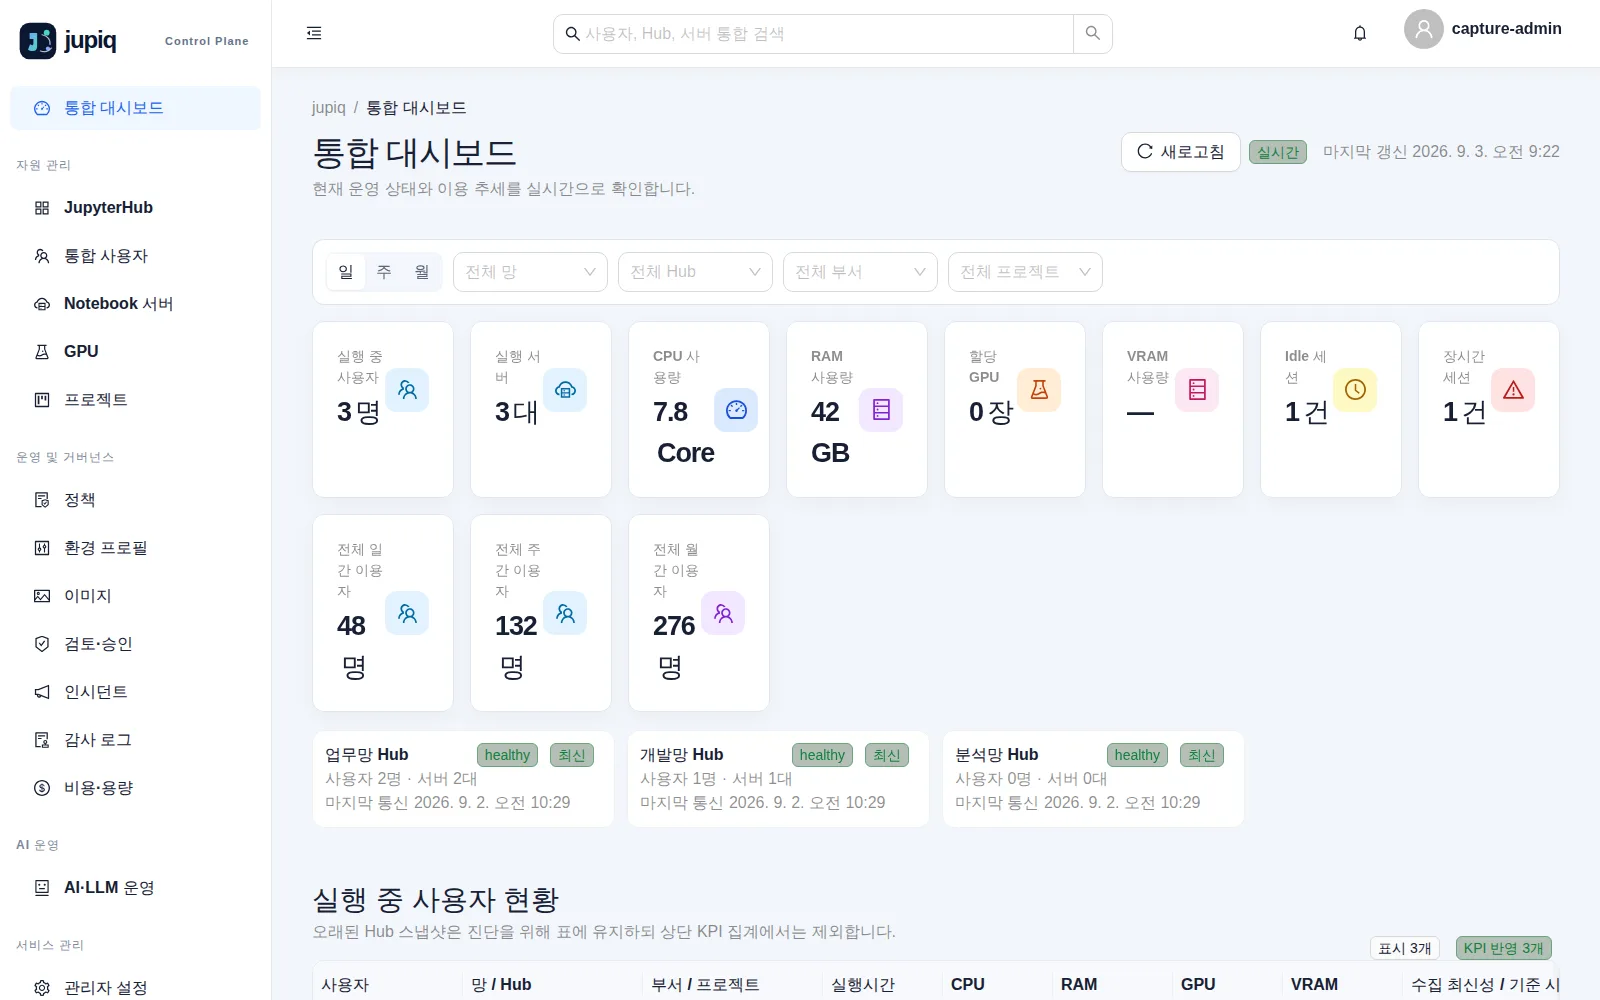
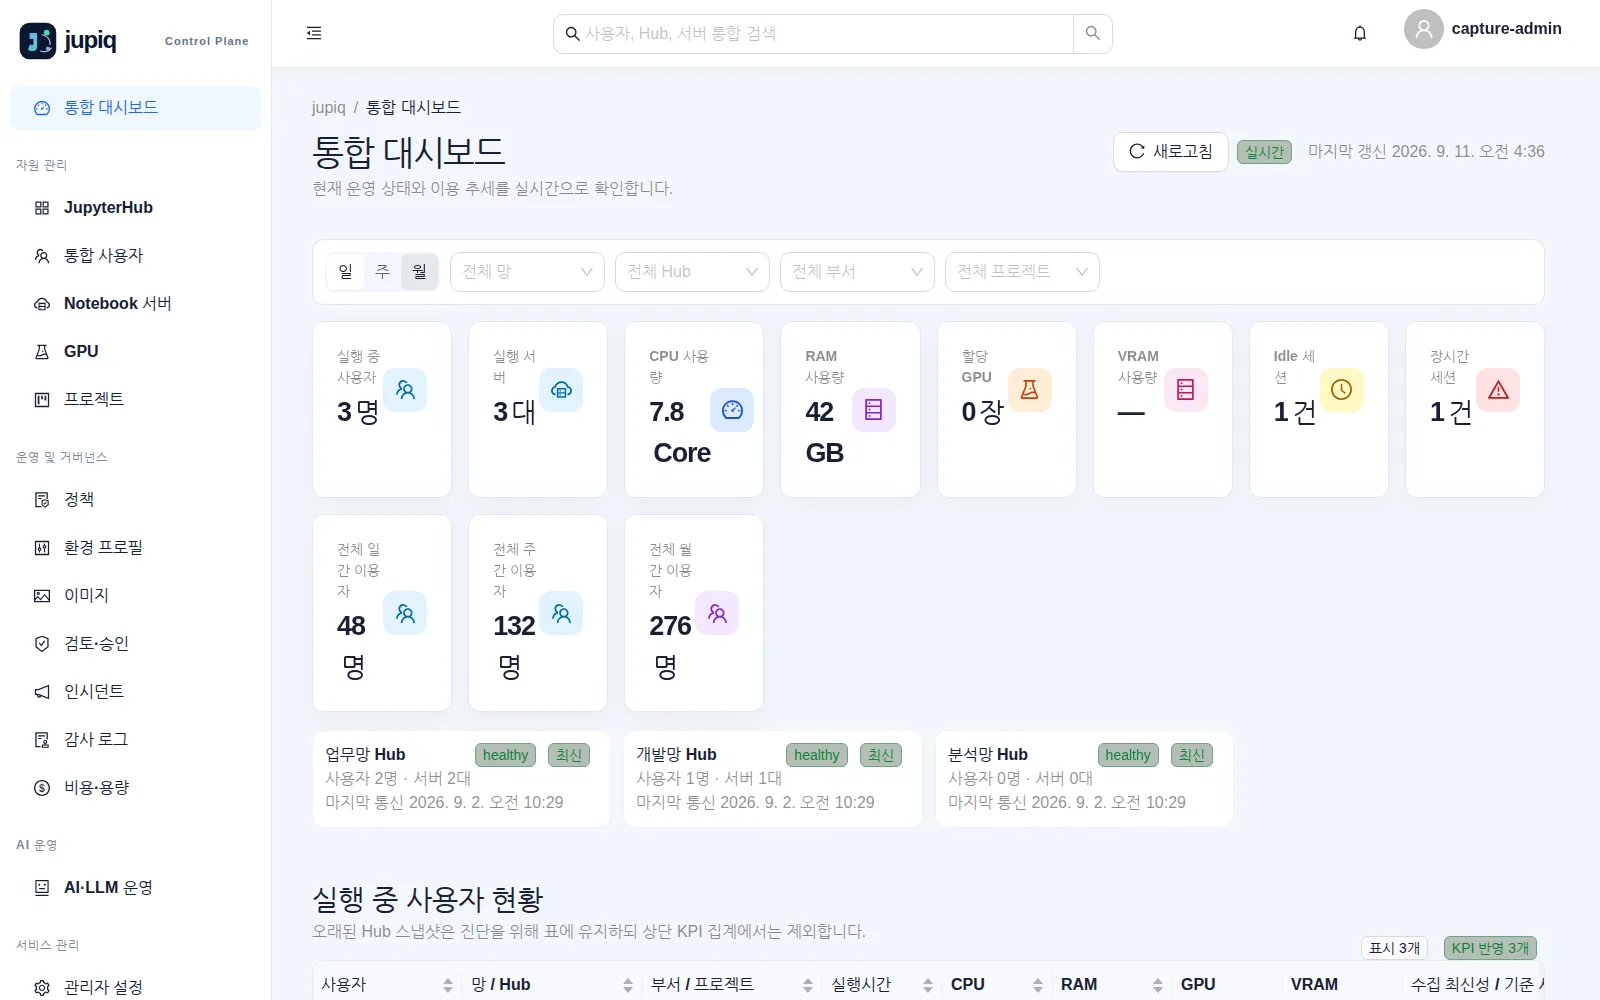
chore(screenshots): v1.4.13 화면으로 캡처를 다시 찍고 역할 화면을 추가한다
기존 29장은 v1.0.0~v1.1.0 시점 캡처라 지금 UI와 어긋난 곳이 있었다.
로컬 PostgreSQL과 v1.4.13 빌드로 앱을 띄워 manifest 전체를 다시 찍었다.

관리자 가이드의 "계정과 권한" 절이 실제 역할 화면을 실을 수 있도록
admin-roles.webp(관리자 설정 → 보안·키 권한 탭)를 manifest에 더하고,
캡처 스크립트가 해당 탭을 열고 역할 표가 뜬 뒤 찍도록 조건을 추가했다.
갤러리와 홈의 화면 수(29 → 30)도 함께 맞췄다.

diff --git a/docs/screenshots/index.html b/docs/screenshots/index.html
@@ -4,7 +4,7 @@
   <meta charset="utf-8">
   <meta name="viewport" content="width=device-width,initial-scale=1">
   <title>전체 제품 화면 갤러리 | jupiq</title>
-  <meta name="description" content="jupiq의 로그인, 실시간 JupyterHub 이용 현황, 관리자 연동 설정, 통합 검색, GPU·AI 분석, 정책·감사, 개인 API 키와 모바일 화면 29개를 확인하세요.">
+  <meta name="description" content="jupiq의 로그인, 실시간 JupyterHub 이용 현황, 관리자 연동 설정, 통합 검색, GPU·AI 분석, 정책·감사, 개인 API 키와 모바일 화면 30개를 확인하세요.">
   <meta name="keywords" content="jupiq 화면, JupyterHub 관리자 UI, 실시간 사용량 대시보드, GPU 모니터링 화면, Keycloak 설정, API 키 회전">
   <meta name="theme-color" content="#0b1730">
   <link rel="canonical" href="https://hkjang.github.io/jupiq/screenshots/">
@@ -14,12 +14,12 @@
   <meta property="og:locale" content="ko_KR">
   <meta property="og:site_name" content="jupiq">
   <meta property="og:title" content="jupiq 전체 제품 화면 갤러리">
-  <meta property="og:description" content="실시간 현황부터 사용자·통합 검색, 연동 설정·정책·감사·AI 분석·개인화까지 29개 실제 제품 화면">
+  <meta property="og:description" content="실시간 현황부터 사용자·통합 검색, 연동 설정·정책·감사·AI 분석·개인화까지 30개 실제 제품 화면">
   <meta property="og:url" content="https://hkjang.github.io/jupiq/screenshots/">
   <meta property="og:image" content="https://hkjang.github.io/jupiq/assets/screenshots/realtime-usage.webp">
   <meta name="twitter:card" content="summary_large_image">
   <meta name="twitter:title" content="jupiq 전체 제품 화면 갤러리">
-  <meta name="twitter:description" content="오프라인망 AI Workspace Control Plane의 실제 화면 29개">
+  <meta name="twitter:description" content="오프라인망 AI Workspace Control Plane의 실제 화면 30개">
   <meta name="twitter:image" content="https://hkjang.github.io/jupiq/assets/screenshots/realtime-usage.webp">
   <script type="application/ld+json">
   {
@@ -27,9 +27,9 @@
     "@type":"CollectionPage",
     "name":"jupiq 전체 제품 화면 갤러리",
     "url":"https://hkjang.github.io/jupiq/screenshots/",
-    "description":"jupiq AI Workspace Control Plane의 데스크톱·모바일 제품 화면 29개",
+    "description":"jupiq AI Workspace Control Plane의 데스크톱·모바일 제품 화면 30개",
     "isPartOf":{"@type":"WebSite","name":"jupiq","url":"https://hkjang.github.io/jupiq/"},
-    "mainEntity":{"@type":"ImageGallery","name":"jupiq 제품 화면 29개","numberOfItems":29}
+    "mainEntity":{"@type":"ImageGallery","name":"jupiq 제품 화면 30개","numberOfItems":30}
   }
   </script>
   <script src="../assets/js/site.js" defer></script>
@@ -50,7 +50,7 @@
     <section class="doc-hero"><div class="container">
       <div class="breadcrumb"><span><a href="../">홈</a></span><span>전체 화면 갤러리</span></div>
       <p class="eyebrow">Complete product gallery</p>
-      <h1>운영 흐름 전체를<br>29개 화면으로 확인하세요</h1>
+      <h1>운영 흐름 전체를<br>30개 화면으로 확인하세요</h1>
       <p class="lede">로그인과 실시간 현황부터 Hub·서버, 선택형 GPU, 정책·감사, AI 분석, 개인 API 키와 모바일 화면까지 실제 jupiq UI를 한곳에 모았습니다.</p>
       <div class="actions"><a class="button dark" href="#overview">화면 둘러보기</a><a class="button ghost" href="../user-guide/">사용자 가이드</a></div>
     </div></section>
@@ -110,6 +110,7 @@
       <p class="lede">관리자는 외부 연동과 기능 정책을, 사용자는 자신의 프로필과 최소 권한 API 키를 독립된 화면에서 관리합니다.</p>
       <div class="screenshot-grid">
         <figure class="screenshot-card featured" data-reveal><div class="screenshot-frame"><img src="../assets/screenshots/admin-settings.webp" alt="Keycloak Prometheus Kubernetes AI Webhook 연결 테스트가 있는 관리자 설정 화면" loading="lazy"></div><figcaption><strong>관리자 연동 설정</strong><span>Keycloak·Prometheus·Kubernetes·AI·Webhook 설정을 저장 전에 검사합니다. JupyterHub 등록과 진단은 Hub 관리 화면에서 수행합니다.</span></figcaption></figure>
+        <figure class="screenshot-card" data-reveal><div class="screenshot-frame"><img src="../assets/screenshots/admin-roles.webp" alt="개인 API 키 정책과 역할 세부 권한 목록이 있는 보안 키 권한 화면" loading="lazy"></div><figcaption><strong>역할·세부 권한</strong><span>개인 API 키 정책과 함께 역할별 permission을 확인하고 시스템 역할 보호 규칙을 안내합니다.</span></figcaption></figure>
         <figure class="screenshot-card" data-reveal><div class="screenshot-frame"><img src="../assets/screenshots/personal-profile.webp" alt="역할과 권한이 표시된 개인 프로필 화면" loading="lazy"></div><figcaption><strong>개인 프로필</strong><span>사용자 ID와 표시 이름, 부서, 역할과 세부 권한을 확인합니다.</span></figcaption></figure>
         <figure class="screenshot-card" data-reveal><div class="screenshot-frame"><img src="../assets/screenshots/personal-keys.webp" alt="마스킹된 개인 API 키 권한과 회전 폐기 화면" loading="lazy"></div><figcaption><strong>개인 API 키·회전</strong><span>키 평문을 재표시하지 않고 권한, 상태, 최근 사용, 만료와 회전을 관리합니다.</span></figcaption></figure>
       </div>

diff --git a/docs/index.html b/docs/index.html
@@ -169,7 +169,7 @@
       <div class="container">
         <p class="eyebrow">Product gallery</p><h2>운영자가 매일 보는 화면</h2>
         <p class="lede">검증된 실제 제품 캡처에는 비식별 데모 데이터만 사용하며 개인정보와 내부 주소를 포함하지 않습니다.</p>
-        <div class="actions"><a class="button dark" href="./screenshots/">전체 29개 화면 보기</a></div>
+        <div class="actions"><a class="button dark" href="./screenshots/">전체 30개 화면 보기</a></div>
         <div class="screenshot-grid">
           <figure class="screenshot-card featured" data-reveal><div class="screenshot-frame"><img src="./assets/screenshots/realtime-usage.webp" alt="실행 서버 사용자와 자원 사용 현황 대시보드" loading="lazy" data-screenshot><div class="screenshot-placeholder" hidden><span class="placeholder-title">실시간 사용 현황</span><span>실행 서버 사용자 · 실행 서버 · CPU/RAM · 망별 상태</span><div class="placeholder-bars"></div></div></div><figcaption><strong>1. 누가 얼마나 사용 중인지</strong><span>최신 Hub snapshot의 실행 서버 사용자와 서버·자원을 망/부서/사용자 단위로 즉시 확인합니다.</span></figcaption></figure>
           <figure class="screenshot-card" data-reveal><div class="screenshot-frame"><img src="./assets/screenshots/data-freshness.webp" alt="망별 데이터 신선도와 Hub 상태" loading="lazy" data-screenshot><div class="screenshot-placeholder" hidden><span class="placeholder-title">데이터 신선도</span><span>Fresh · Stale · Healthy · Degraded · 마지막 갱신</span><div class="placeholder-bars"></div></div></div><figcaption><strong>2. 신선도와 Hub 상태</strong><span>오래된 자료와 수집 실패 Hub를 구분하고 마지막 성공 snapshot을 유지합니다.</span></figcaption></figure>
